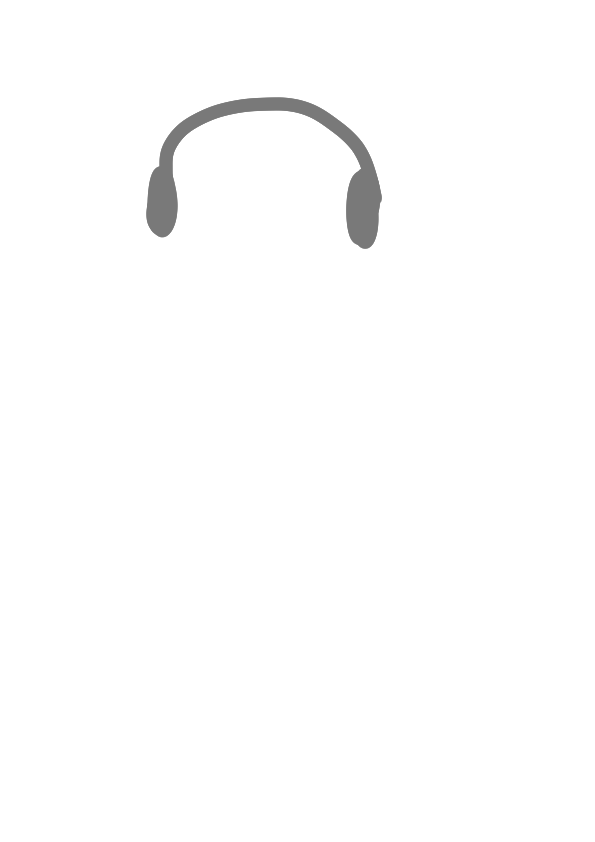
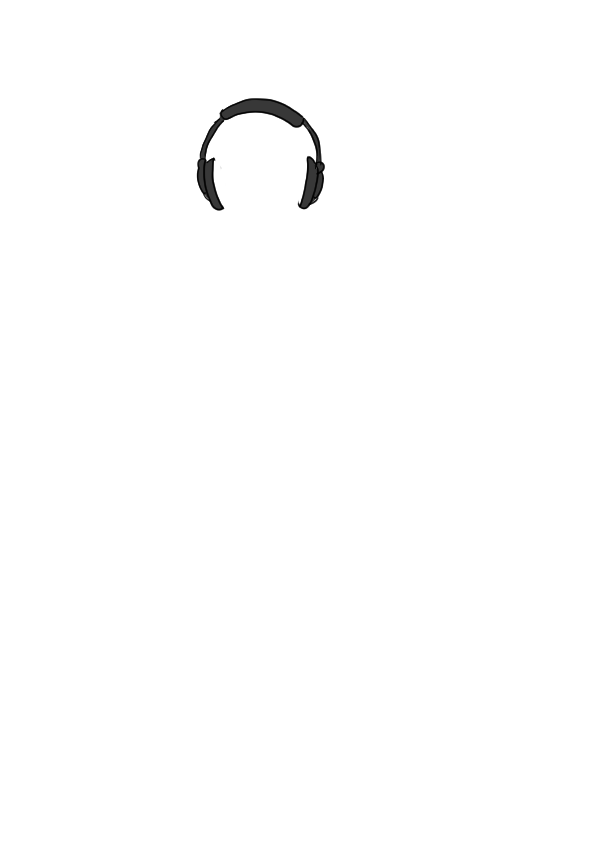
uploaded design and images

Changed region(s): [[0.242, 0.0926, 0.6655, 0.3088]]

diff --git a/index.html b/index.html
@@ -17,12 +17,15 @@
     <script type="text/javascript"></script>
     
     <script src="https://kit.fontawesome.com/dda3c9e5b2.js" crossorigin="anonymous"></script>
-
   </head>
 
   <body>
 
-    <h1>Dress Up Game</h1>
+    <div class="titleDiv">
+      <h1>Dress Up Game</h1>
+
+      <button id="refreshButton" onClick="window.location.reload();">Reset All</button>
+    </div>
 
     <div id="container">
 
@@ -77,27 +80,65 @@
       </button>
 
 
-      <img id="character" src="images/person.png" /> 
+      <!-- BASE CHARACTER -->
+      <img id="character" src="images/character.png" /> 
 
-      <img id="top1" class="shirt" src="images/blueShirt.png" />
-
-      <img id="top2" class="shirt" src="images/pinkShirt.png" />
-
-      <img id="bottom1" class="pant" src="images/blueSkirt.png" />
-
-      <img id="bottom2"  class="pant" src="images/greyPants.png" />
-
-      <img id="hair1" class="hair" src="images/blackHair.png" />
-
-      <img id="hair2" class="hair" src="images/purpleHair.png" />
-
-      <img id="shoe1" class="shoe" src="images/blackShoes.png" />
-
-      <img id="shoe2"  class="shoe" src="images/purpleShoes.png" />
-
+      <!-- ACCESSORIES -->
       <img id="acc1" class="acc" src="images/headphones.png" />
+      <img id="acc2" class="acc" src="images/empty.png" />
 
-      <img id="acc2"  class="acc" src="images/hairband.png" />
+      <!-- HAIR -->
+      <img id="hair1" class="hair" src="images/hair1.png" />
+      <img id="hair2" class="hair" src="images/hair2.png" />
+      <img id="hair3" class="hair" src="images/hair3.png" />
+
+      <!-- TOPS -->
+      <img id="top1" class="shirt" src="images/jacket1.png" />
+
+      <img id="top2" class="shirt" src="images/hoodie1.png" />
+      <img id="top3" class="shirt" src="images/hoodie2.png" />
+      <img id="top4" class="shirt" src="images/hoodie3.png" />
+      <img id="top5" class="shirt" src="images/hoodie4.png" />
+
+      <img id="top6" class="shirt" src="images/shirt1.png" />
+      <img id="top7" class="shirt" src="images/shirt2.png" />
+      <img id="top8" class="shirt" src="images/shirt3.png" />
+      <img id="top9" class="shirt" src="images/shirt4.png" />
+
+      <img id="top10" class="shirt" src="images/sweatshirt1.png" />
+      <img id="top11" class="shirt" src="images/sweatshirt2.png" />
+      <img id="top12" class="shirt" src="images/sweatshirt3.png" />
+      <img id="top13" class="shirt" src="images/sweatshirt4.png" />
+      <img id="top14" class="shirt" src="images/sweatshirt5.png" />
+
+      <img id="top15" class="shirt" src="images/tshirt1.png" />
+      <img id="top16" class="shirt" src="images/tshirt2.png" />
+      <img id="top17" class="shirt" src="images/tshirt3.png" />
+      <img id="top18" class="shirt" src="images/tshirt4.png" />
+
+      <!-- BOTTOMS -->
+      <img id="bottom1" class="pant" src="images/jeans1.png" />
+      <img id="bottom2" class="pant" src="images/jeans2.png" />
+
+      <img id="bottom3" class="pant" src="images/shorts1.png" />
+      <img id="bottom4" class="pant" src="images/shorts2.png" />
+
+      <img id="bottom5" class="pant" src="images/sweatpants1.png" />
+      <img id="bottom6" class="pant" src="images/sweatpants2.png" />
+      <img id="bottom7" class="pant" src="images/sweatpants3.png" />
+      <img id="bottom8" class="pant" src="images/sweatpants4.png" />
+      <img id="bottom9" class="pant" src="images/sweatpants5.png" />
+      <img id="bottom10" class="pant" src="images/sweatpants6.png" />
+
+      <!-- SHOES -->
+      <img id="shoe1" class="shoe" src="images/shoes1.png" />
+      <img id="shoe2" class="shoe" src="images/shoes2.png" />
+      <img id="shoe3" class="shoe" src="images/shoes3.png" />
+      <img id="shoe4" class="shoe" src="images/shoes4.png" />
+      <img id="shoe5" class="shoe" src="images/shoes5.png" />
+      <img id="shoe6" class="shoe" src="images/shoes6.png" />
+
+      
 
     </div>
     

diff --git a/dressup.css b/dressup.css
@@ -2,11 +2,11 @@ body{
     margin: 0;
 	background-color: #fff;
     font-family: 'Ubuntu', sans-serif;
+    background-image: url('images/background.png');
 }
 
 h1 {
     font-family: 'Fredoka One', cursive;
-    text-align: center;
 }
 
 #container {
@@ -19,7 +19,7 @@ img {
     height:100%;
 }
 
-button{
+button {
     cursor: pointer;
     border-radius: 100%;
     height: 50px;
@@ -27,52 +27,60 @@ button{
     z-index: 999;
 }
 
-ul{
-	list-style-type: none;
-	display:inline-block;
-}
-
-character{
+character {
     z-index: -1000;   
 }
 
-.shirt{
+.titleDiv {
+    display: flex;
+    flex-direction: row;
+    align-items: center;
+    justify-content: center;
+    background-color: rgba(256, 256, 256, 75%);
+}
+
+#refreshButton {
+    position: relative;
+    border-radius: 10px;
+    font-family: 'Fredoka One', cursive;
+    width: 100px;
+    box-shadow: 6px 6px 0px black;
+    margin: 50px;
+}
+
+#refreshButton:active {
+    left: 6px;
+    top: 6px;
+    box-shadow: none;
+}
+
+.acc {
+    visibility:hidden;
+    z-index: 5;
+}
+
+.hair {
+    visibility:hidden;
+    z-index: 4;
+}
+
+.shirt {
+	visibility:hidden;
+    z-index: 3;
+}
+
+.pant {
 	visibility:hidden;
     z-index: 2;
 }
 
-.pant{
-	visibility:hidden;
+.shoe {
+    visibility:hidden;
     z-index: 1;
-}
-
-.acc, .shoe, .hair {
-    visibility: hidden;
-    z-index: 3;
 }
 
 button[id$="_button"], button[id$="_button_prev"] {
     position: relative;
-}
-
-#shirt_button {
-    top: 400px;
-    right: 300px;
-}
-
-#shirt_button_prev {
-    top: 400px;
-    left: 300px;
-}
-
-#pant_button {
-    top: 600px;
-    right: 400px;
-}
-
-#pant_button_prev {
-    top: 600px;
-    left: 200px;
 }
 
 #acc_button {
@@ -93,6 +101,26 @@ button[id$="_button"], button[id$="_button_prev"] {
 #hair_button_prev {
     top: 200px;
     right: -400px;
+}
+
+#shirt_button {
+    top: 400px;
+    right: 300px;
+}
+
+#shirt_button_prev {
+    top: 400px;
+    left: 300px;
+}
+
+#pant_button {
+    top: 600px;
+    right: 400px;
+}
+
+#pant_button_prev {
+    top: 600px;
+    left: 200px;
 }
 
 #shoe_button {
